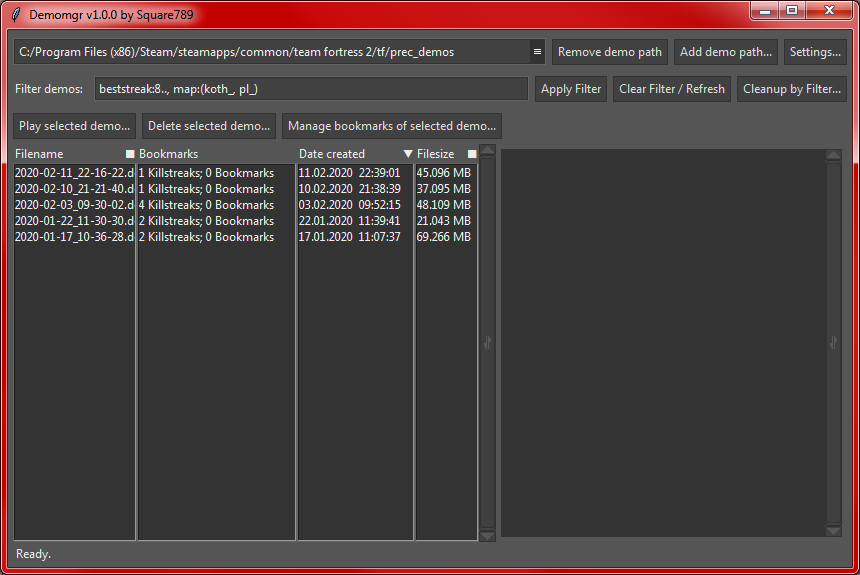
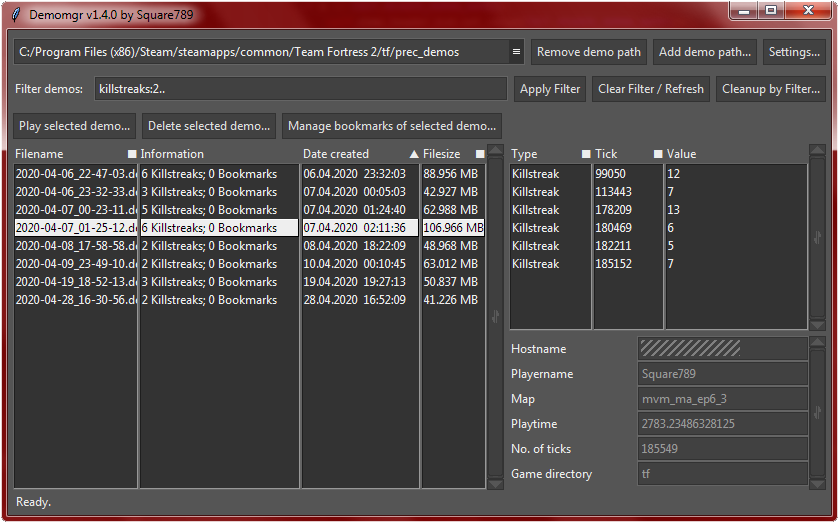
New interface showcased on README

diff --git a/README.md b/README.md
@@ -2,7 +2,7 @@
 Demomgr is a python script designed to keep track of, cleanup and play demo files from the Source video game Team Fortress 2, released by Valve Corporation in 2007.
 
 > ![Main program window](https://github.com/Square789/Demomgr/blob/master/img0.PNG)  
-> _A folder, filtered to only include demos where a killstreak of at least 8 has occurred and the map type is either king of the hill or payload, sorted by creation date._
+> _A folder, filtered to only include demos with at least 2 killstreaks, sorted by creation date. One demo selected._
 ### Current features:
 * List Demos, their filesize, creation date and the amount of Killstreaks/Bookmarks
   * View demo header information
